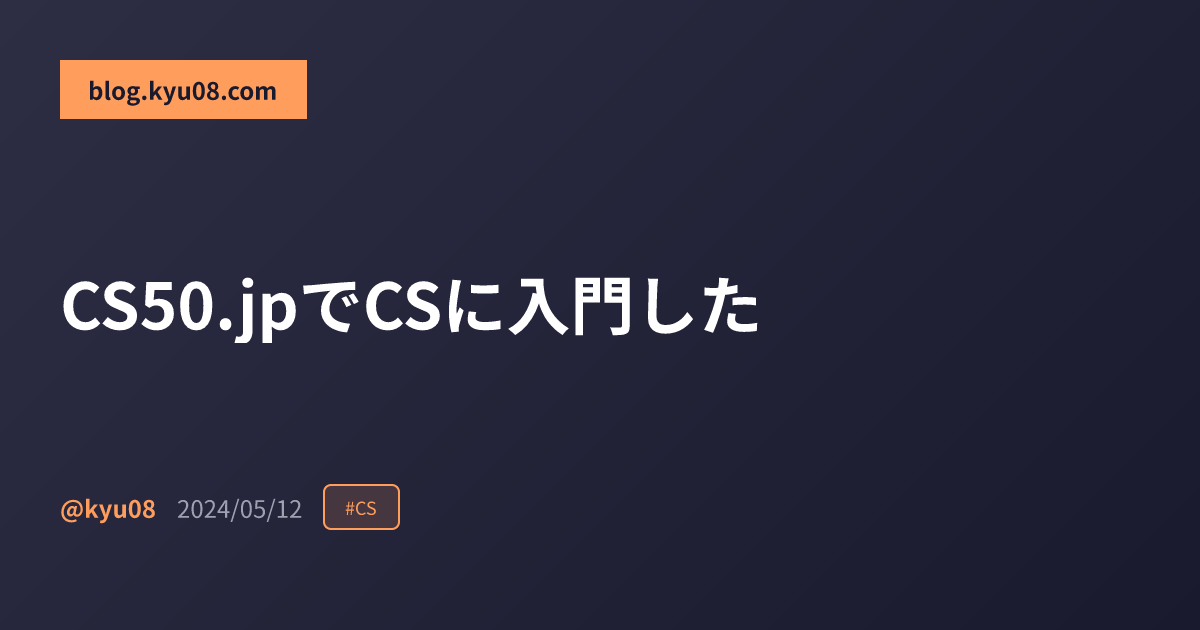
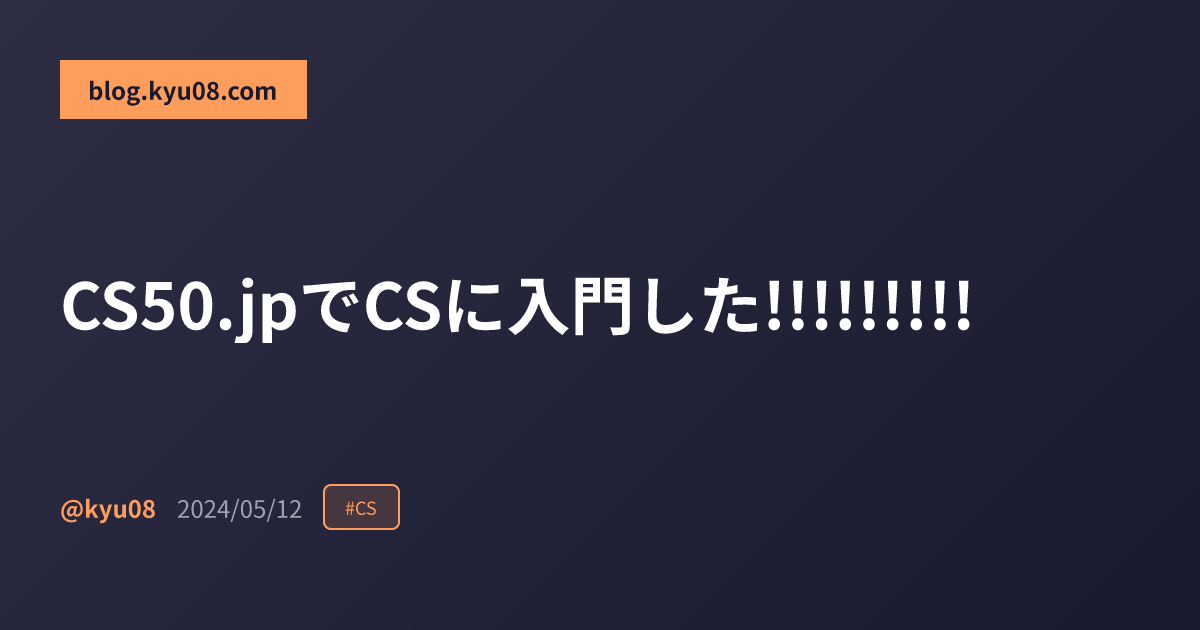
deploy: 787715909b527a4538664f1c5a6bdf998a82e7f7

Changed region(s): [[0.6167, 0.4222, 0.8325, 0.5429]]

diff --git a/pr-240/posts/cs50-jp/index.html b/pr-240/posts/cs50-jp/index.html
@@ -2,7 +2,7 @@
 <html lang="ja">
 <head>
   
-    <title>CS50.jpでCSに入門した!!!!!!!!! :: blog.kyu08.com</title>
+    <title>CS50.jpでCSに入門した!!!!!!!! :: blog.kyu08.com</title>
   
   <meta http-equiv="content-type" content="text/html; charset=utf-8">
 <meta name="viewport" content="width=device-width, initial-scale=1.0">
@@ -91,7 +91,7 @@ if (!doNotTrack) {
 
 <meta property="og:locale" content="ja" />
 <meta property="og:type" content="article" />
-<meta property="og:title" content="CS50.jpでCSに入門した!!!!!!!!!">
+<meta property="og:title" content="CS50.jpでCSに入門した!!!!!!!!">
 <meta property="og:description" content="CS50.jp の気になっていたトピックを学んでみたので振り返っておく。 CS50.jpとは CS50.jp の説明はサイトから引用する。 このページは、ハーバード大学 CS50 の日" />
 <meta property="og:url" content="https://blog.kyu08.com/pr-240/posts/cs50-jp/" />
 <meta property="og:site_name" content="blog.kyu08.com" />
@@ -105,7 +105,7 @@ if (!doNotTrack) {
 
   <meta property="og:image" content="https://blog.kyu08.com/pr-240/posts/cs50-jp/cover.png">
   <meta name="twitter:image" content="https://blog.kyu08.com/pr-240/posts/cs50-jp/cover.png">
-  <meta name="twitter:image:alt" content="CS50.jpでCSに入門した!!!!!!!!!">
+  <meta name="twitter:image:alt" content="CS50.jpでCSに入門した!!!!!!!!">
 
 <meta property="og:image:width" content="1200">
 <meta property="og:image:height" content="630">
@@ -210,7 +210,7 @@ if (!doNotTrack) {
     
 <article class="post">
   <h1 class="post-title">
-    <a href="https://blog.kyu08.com/pr-240/posts/cs50-jp/">CS50.jpでCSに入門した!!!!!!!!!</a>
+    <a href="https://blog.kyu08.com/pr-240/posts/cs50-jp/">CS50.jpでCSに入門した!!!!!!!!</a>
   </h1>
   <div class="post-meta"><time class="post-date">2024/05/12</time>
       
@@ -226,7 +226,7 @@ if (!doNotTrack) {
   
   <img src="/pr-240/posts/cs50-jp/cover.png"
     class="post-cover"
-    alt="CS50.jpでCSに入門した!!!!!!!!!"
+    alt="CS50.jpでCSに入門した!!!!!!!!"
     title="Cover Image" />
 
 

diff --git a/pr-240/posts/index.html b/pr-240/posts/index.html
@@ -988,7 +988,7 @@ if (!doNotTrack) {
     
       <article class="post on-list">
         <h2 class="post-title">
-          <a href="https://blog.kyu08.com/pr-240/posts/cs50-jp/">CS50.jpでCSに入門した!!!!!!!!!</a>
+          <a href="https://blog.kyu08.com/pr-240/posts/cs50-jp/">CS50.jpでCSに入門した!!!!!!!!</a>
         </h2>
         <div class="post-meta"><time class="post-date">2024/05/12</time><span class="post-author">kyu08</span></div>
 
@@ -1003,7 +1003,7 @@ if (!doNotTrack) {
         
   <img src="/pr-240/posts/cs50-jp/cover.png"
     class="post-cover"
-    alt="CS50.jpでCSに入門した!!!!!!!!!"
+    alt="CS50.jpでCSに入門した!!!!!!!!"
     title="Cover Image" />
 
 

diff --git a/pr-240/tags/cs/index.html b/pr-240/tags/cs/index.html
@@ -285,7 +285,7 @@ if (!doNotTrack) {
     
       <article class="post on-list">
         <h1 class="post-title">
-          <a href="https://blog.kyu08.com/pr-240/posts/cs50-jp/">CS50.jpでCSに入門した!!!!!!!!!</a>
+          <a href="https://blog.kyu08.com/pr-240/posts/cs50-jp/">CS50.jpでCSに入門した!!!!!!!!</a>
         </h1>
         <div class="post-meta"><time class="post-date">2024/05/12</time><span class="post-author">kyu08</span></div>
 
@@ -300,7 +300,7 @@ if (!doNotTrack) {
         
   <img src="/pr-240/posts/cs50-jp/cover.png"
     class="post-cover"
-    alt="CS50.jpでCSに入門した!!!!!!!!!"
+    alt="CS50.jpでCSに入門した!!!!!!!!"
     title="Cover Image" />
 
 

diff --git a/pr-240/index.html b/pr-240/index.html
@@ -919,7 +919,7 @@ if (!doNotTrack) {
       </article>
     <article class="post on-list"><time class="post-date">2024/05/12</time>
         <br/>
-          <a href="https://blog.kyu08.com/pr-240/posts/cs50-jp/">CS50.jpでCSに入門した!!!!!!!!!</a>
+          <a href="https://blog.kyu08.com/pr-240/posts/cs50-jp/">CS50.jpでCSに入門した!!!!!!!!</a>
         
 
         
@@ -937,7 +937,7 @@ if (!doNotTrack) {
         
   <img src="/pr-240/posts/cs50-jp/cover.png"
     class="post-cover"
-    alt="CS50.jpでCSに入門した!!!!!!!!!"
+    alt="CS50.jpでCSに入門した!!!!!!!!"
     title="Cover Image" />
 
 

diff --git a/pr-240/posts/tmux-fzf-window/index.html b/pr-240/posts/tmux-fzf-window/index.html
@@ -280,7 +280,7 @@ run &#39;~/.tmux/plugins/tpm/tpm&#39; # すでにある場合は不要
   <div class="pagination__buttons">
     
       <a href="https://blog.kyu08.com/pr-240/posts/cs50-jp/" class="button inline prev">
-        CS50.jpでCSに入門した!!!!!!!!!
+        CS50.jpでCSに入門した!!!!!!!!
       </a>
     
     

diff --git a/pr-240/posts/mac-too-many-open-files/index.html b/pr-240/posts/mac-too-many-open-files/index.html
@@ -377,7 +377,7 @@ if (!doNotTrack) {
     
     
       <a href="https://blog.kyu08.com/pr-240/posts/cs50-jp/" class="button inline next">
-        CS50.jpでCSに入門した!!!!!!!!!
+        CS50.jpでCSに入門した!!!!!!!!
       </a>
     
   </div>
